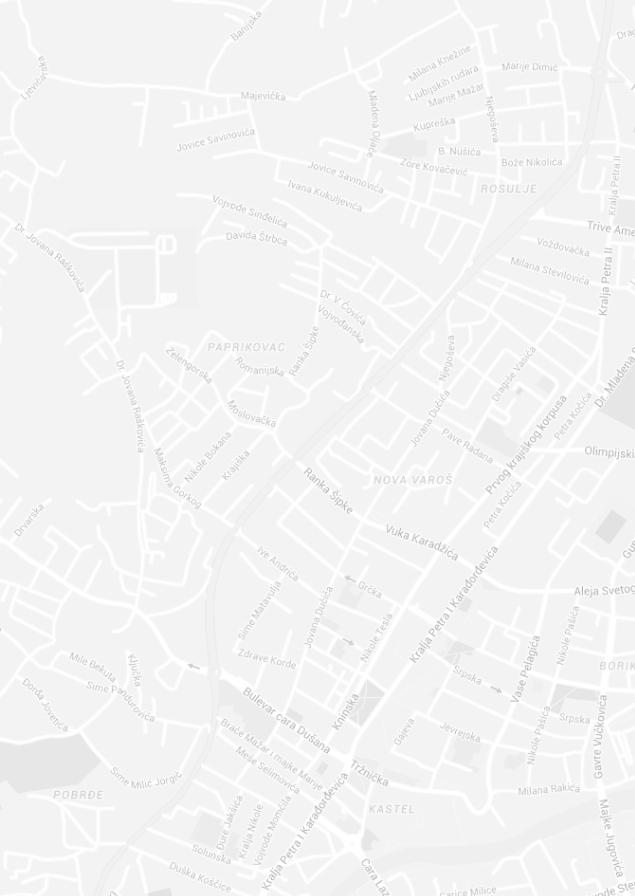
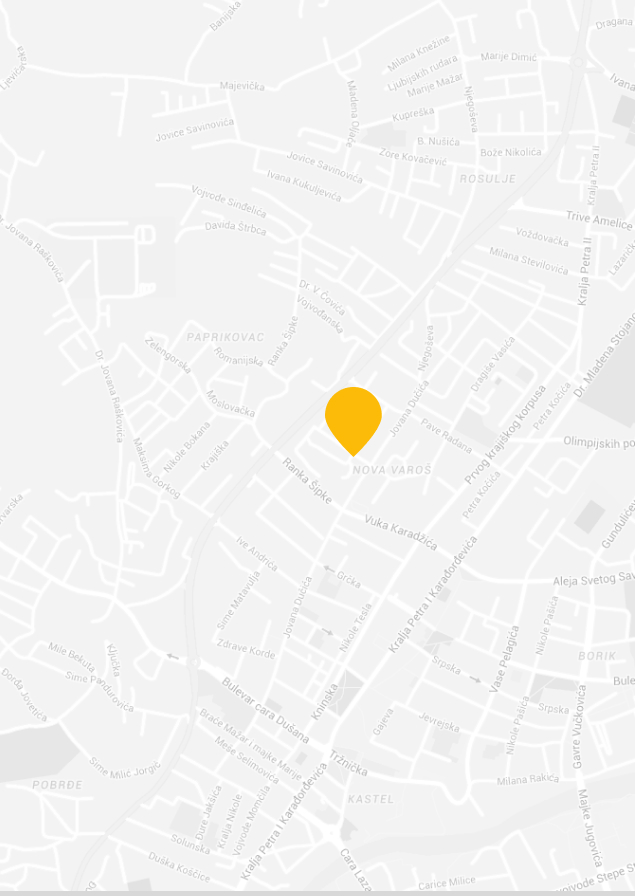
fix

diff --git a/dist/index.html b/dist/index.html
@@ -458,9 +458,9 @@
           Get in Touch
         </h2>
         <form class="connection__form">
-          <input type="text" name="user" placeholder="ИМЯ" required>
-          <input type="text" name="email" placeholder="EMAIL" required>
-          <textarea name="text" placeholder="ВАШЕ СООБЩЕНИЕ" required></textarea>
+          <input class="connection__info" type="text" name="user" placeholder="ИМЯ" required>
+          <input class="connection__info" type="text" name="email" placeholder="EMAIL" required>
+          <textarea class="connection__info" name="text" placeholder="ВАШЕ СООБЩЕНИЕ" required></textarea>
           <button class="connection__btn" type="submit">ОТПРАВИТЬ</button>
         </form>
         

diff --git a/src/index.html b/src/index.html
@@ -458,9 +458,9 @@
           Get in Touch
         </h2>
         <form class="connection__form">
-          <input type="text" name="user" placeholder="ИМЯ" required>
-          <input type="text" name="email" placeholder="EMAIL" required>
-          <textarea name="text" placeholder="ВАШЕ СООБЩЕНИЕ" required></textarea>
+          <input class="connection__info" type="text" name="user" placeholder="ИМЯ" required>
+          <input class="connection__info" type="text" name="email" placeholder="EMAIL" required>
+          <textarea class="connection__info" name="text" placeholder="ВАШЕ СООБЩЕНИЕ" required></textarea>
           <button class="connection__btn" type="submit">ОТПРАВИТЬ</button>
         </form>
         

diff --git a/dist/assets/css/style.min.css b/dist/assets/css/style.min.css
@@ -772,11 +772,21 @@ template {
   background-image: url("../images/map.jpg");
   background-size: 40%;
   background-repeat: no-repeat;
-  background-position: right 100%; }
+  background-position: right 82%; }
   .connection__title {
     margin-bottom: 95px; }
+  .connection .connection__title {
+    margin-bottom: 80px; }
   .connection__form {
-    display: flex;
-    flex-direction: column; }
+    max-width: 570px; }
+  .connection__info {
+    display: block;
+    width: 100%;
+    border: none;
+    border-bottom: 2px solid #373A39;
+    font-size: 12px;
+    line-height: 20px;
+    padding: 16px 0;
+    margin-bottom: 16px; }
 
 /*# sourceMappingURL=style.min.css.map */

diff --git a/src/assets/scss/layout/_connection.scss b/src/assets/scss/layout/_connection.scss
@@ -3,14 +3,28 @@
   background-image: url("../images/map.jpg");
   background-size: 40%;
   background-repeat: no-repeat;
-  background-position: right 100%;
+  background-position: right 82%;
 
   &__title {
     margin-bottom: 95px;
   }
 
+  .connection__title {
+    margin-bottom: 80px;  
+  }
+
   &__form {
-    display: flex;
-    flex-direction: column;
+    max-width: 570px;
+  }
+
+  &__info {
+    display: block;
+    width: 100%;
+    border: none;
+    border-bottom: 2px solid #373A39;
+    font-size: 12px;
+    line-height: 20px;
+    padding: 16px 0;
+    margin-bottom: 16px;
   }
 }

diff --git a/dist/assets/css/style.css b/dist/assets/css/style.css
@@ -983,3 +983,22 @@ template {
     -ms-flex-align: center;
     align-items: center;
 }
+
+.connection {
+    padding: 145px 0 160px;
+    background-image: url("../images/map.jpg");
+    background-size: 40%;
+    background-repeat: no-repeat;
+    background-position: right 100%;
+}
+
+.connection__title {
+    margin-bottom: 95px;
+}
+
+.connection__form {
+    display: -ms-flexbox;
+    display: flex;
+    -ms-flex-direction: column;
+    flex-direction: column;
+}
